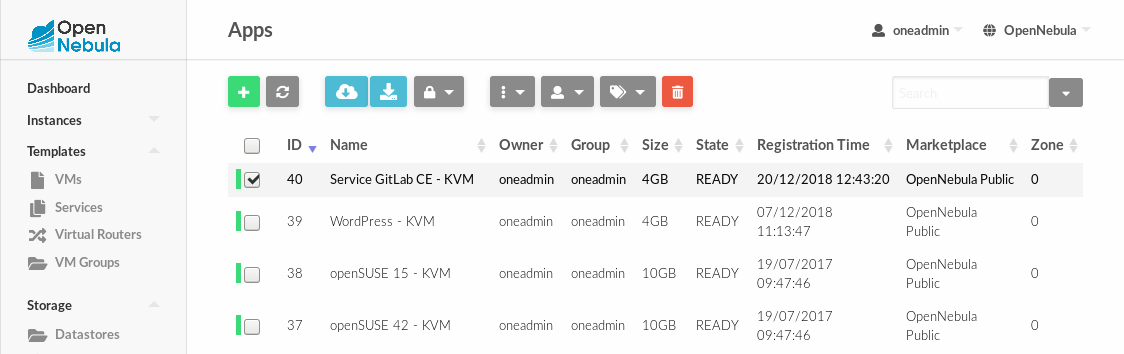
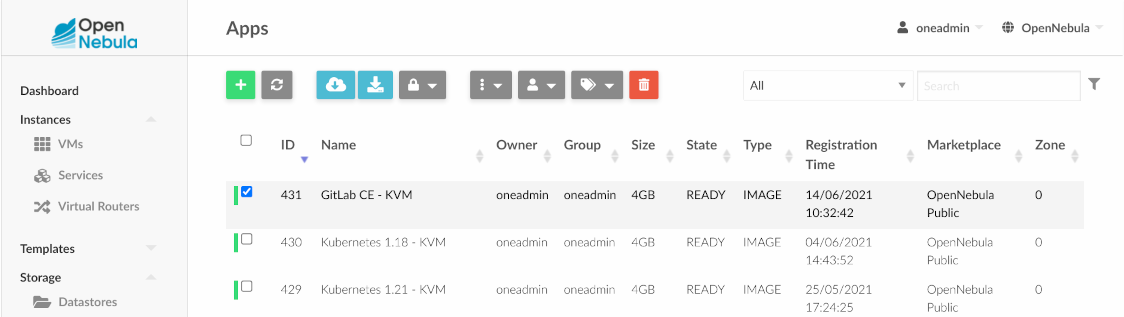
M #-: Update GitLab version and images, reduce use of "Service"

diff --git a/source/service/gitlab.rst b/source/service/gitlab.rst
@@ -1,8 +1,8 @@
 .. _service_gl:
 
-==============
-Service GitLab
-==============
+======
+GitLab
+======
 
 OpenNebula `Marketplace Appliance <https://marketplace.opennebula.io/appliance/6b54a412-03a5-11e9-8652-f0def1753696>`_  with preinstalled `GitLab <https://about.gitlab.com/>`_ service.
 
@@ -19,7 +19,7 @@ Component versions
 ============================= ==================
 Component                     Version
 ============================= ==================
-GitLab                        13.10.0 CE
+GitLab                        13.12.3 CE
 Contextualization package     6.0.0
 ============================= ==================
 

diff --git a/source/service/aws-greengrass.rst b/source/service/aws-greengrass.rst
@@ -1,8 +1,8 @@
 .. _service_awsgg:
 
-==========================
-Service AWS IoT Greengrass
-==========================
+==================
+AWS IoT Greengrass
+==================
 
 OpenNebula `Marketplace Appliance <https://marketplace.opennebula.io/appliance/13449c22-17c3-46cd-b1bf-7cbec55b504b>`_  with preinstalled `AWS IoT Greengrass <https://aws.amazon.com/greengrass/>`_ SDK and services to run IoT Core, device, or both.
 

diff --git a/source/service/kubernetes.rst b/source/service/kubernetes.rst
@@ -1,8 +1,8 @@
 .. _service_k8s:
 
-==================
-Service Kubernetes
-==================
+==========
+Kubernetes
+==========
 
 OpenNebula `Marketplace Appliance <https://marketplace.opennebula.io/appliance/1318e7ca-bd6d-11eb-9ae8-98fa9bde1a93>`_  with preinstalled `Kubernetes <https://kubernetes.io/>`_ service.
 

diff --git a/source/service/wordpress.rst b/source/service/wordpress.rst
@@ -1,8 +1,8 @@
 .. _service_wp:
 
-=================
-Service WordPress
-=================
+=========
+WordPress
+=========
 
 OpenNebula `Marketplace Appliance <https://marketplace.opennebula.io/appliance/84bd27fe-5d14-4e70-a79a-eb3fdd0072ae>`_ with preinstalled `WordPress <https://wordpress.org/>`_ service.
 

diff --git a/source/service/docker.rst b/source/service/docker.rst
@@ -1,8 +1,8 @@
 .. _docker_appliance:
 
-==============
-Service Docker
-==============
+======
+Docker
+======
 
 OpenNebula `Marketplace Appliance <https://marketplace.opennebula.io/appliance/a8330cf6-111a-11ea-9183-f0def1753696>`_  with preinstalled `Docker <https://docker.com>`_ service.
 

diff --git a/source/index.rst b/source/index.rst
@@ -11,7 +11,7 @@ Follow the OpenNebula `documentation <https://docs.opennebula.io/stable/manageme
 .. toctree::
    :maxdepth: 3
 
-   Service Appliances <service/index>
+   Appliances <service/index>
 
 .. raw:: html
    :file: toc.html
